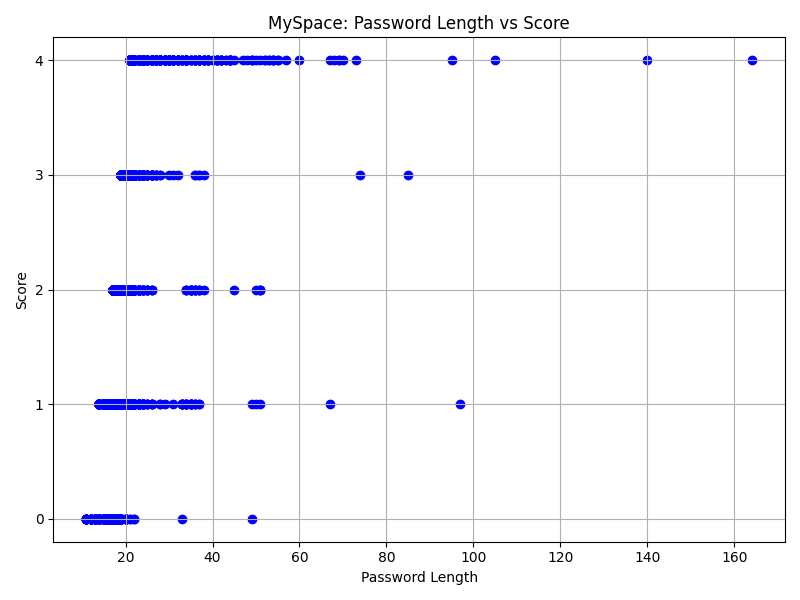
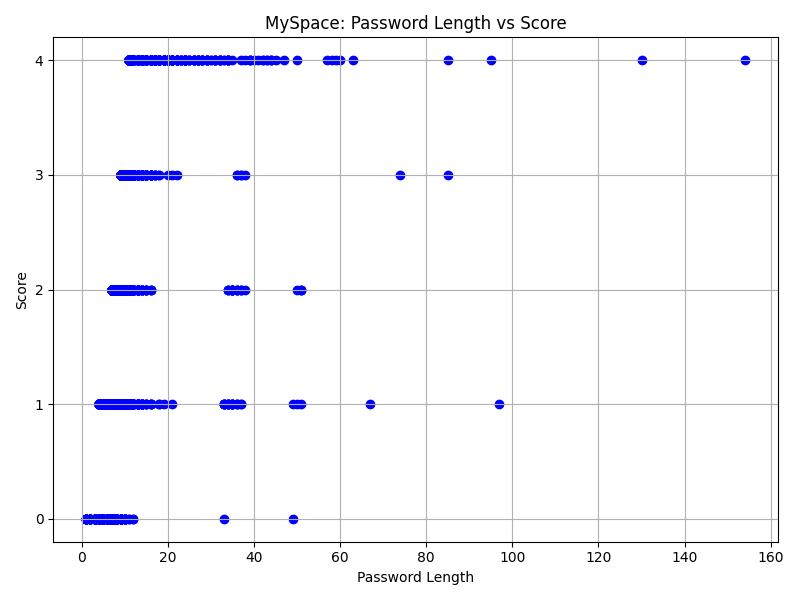
updated score count pass length

diff --git a/Password_Eval/visuals/pass_vis_score.py b/Password_Eval/visuals/pass_vis_score.py
@@ -9,18 +9,19 @@ with open('filtered_data/filtered_data_score.txt', 'r') as file:
     # Read each line
     for line_number, line in enumerate(file, start=1):
         # Split the line to extract password and score
-        parts = line.strip().split(': ', 1)
+        parts = line.split(',')
         # Ensure the line has the expected structure
         if len(parts) == 2:
             # Special handling for passwords with '$' sign
-            if '$' in parts[1]:
-                password = parts[1].replace('$', 'special_character')
+            if '$' in parts[0]:
+                password = parts[0].replace('$', 'special_character')
                 password_length = len(password) + 1  # Adding 1 to length count for '$' sign
                 password = password.replace('special_character', '$')
             else:
-                password = parts[1].strip()
+                password = parts[0].split(':')[1].strip()
                 password_length = len(password)
-            score = int(parts[1].rsplit(', Score:', 1)[1])
+            #score = int(parts[1].rsplit(', Score:', 1)[1])
+            score = int(parts[1].split(':')[1].strip())
             # Append data to lists
             password_lengths.append(password_length)
             scores.append(score)

diff --git a/Password_Eval/visuals/pass_vis_score_rockyou.py b/Password_Eval/visuals/pass_vis_score_rockyou.py
@@ -9,18 +9,19 @@ with open('filtered_data_score_rockyou.txt', 'r') as file:
     # Read each line
     for line_number, line in enumerate(file, start=1):
         # Split the line to extract password and score
-        parts = line.strip().split(': ', 1)
+        parts = line.split(',')
         # Ensure the line has the expected structure
         if len(parts) == 2:
             # Special handling for passwords with '$' sign
-            if '$' in parts[1]:
-                password = parts[1].replace('$', 'special_character')
+            if '$' in parts[0]:
+                password = parts[0].replace('$', 'special_character')
                 password_length = len(password) + 1  # Adding 1 to length count for '$' sign
                 password = password.replace('special_character', '$')
             else:
-                password = parts[1].strip()
+                password = parts[0].split(':')[1].strip()
                 password_length = len(password)
-            score = int(parts[1].rsplit(', Score:', 1)[1])
+            #score = int(parts[1].rsplit(', Score:', 1)[1])
+            score = int(parts[1].split(':')[1].strip())
             # Append data to lists
             password_lengths.append(password_length)
             scores.append(score)
